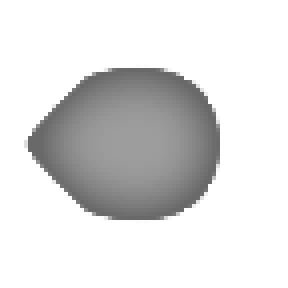
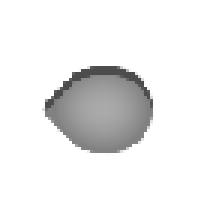
Updated visuals
gfdgfds

Changed region(s): [[0.0833, 0.2222, 0.7778, 0.7778]]

diff --git a/Assets/Scripts/Visual/ButtonRenderer.cs b/Assets/Scripts/Visual/ButtonRenderer.cs
@@ -5,6 +5,7 @@ using System.Collections.Generic;
 public class ButtonRenderer : MonoBehaviour
 {
     public List<Sprite> _SpriteList;
+    public float _FadeInSpeed;
 
     private SpriteRenderer mMySpriteRenderer;
 
@@ -14,8 +15,22 @@ public class ButtonRenderer : MonoBehaviour
         mMySpriteRenderer = GetComponent<SpriteRenderer>();
 	}
 
+    void Update()
+    {
+        if (mMySpriteRenderer.color.a < 1)
+        {
+            Debug.Log("Current alpha : " + mMySpriteRenderer.color.a);
+            mMySpriteRenderer.color += new Color(0f, 0f, 0f, _FadeInSpeed);
+        }
+    }
+
     public void SetSpriteFrame(EAxisData aAxisData)
     {
         mMySpriteRenderer.sprite = _SpriteList[aAxisData.Id];
+    }
+
+    public void PlayFadeIn()
+    {
+        mMySpriteRenderer.color = new Color(1f,1f,1f,0f);
     }
 }

diff --git a/Assets/Scripts/Visual/VisualManager.cs b/Assets/Scripts/Visual/VisualManager.cs
@@ -73,6 +73,7 @@ public class VisualManager : MonoBehaviour
         buttonRenderer.SetSpriteFrame(axisData);
         buttonRenderer.gameObject.transform.position = spawnPositionList[axisData.AxisDirection].position;
 
+        buttonRenderer.PlayFadeIn();
 
         DisplayedNoteData displayedNoteData = new DisplayedNoteData();
         displayedNoteData.Note = aNote;
